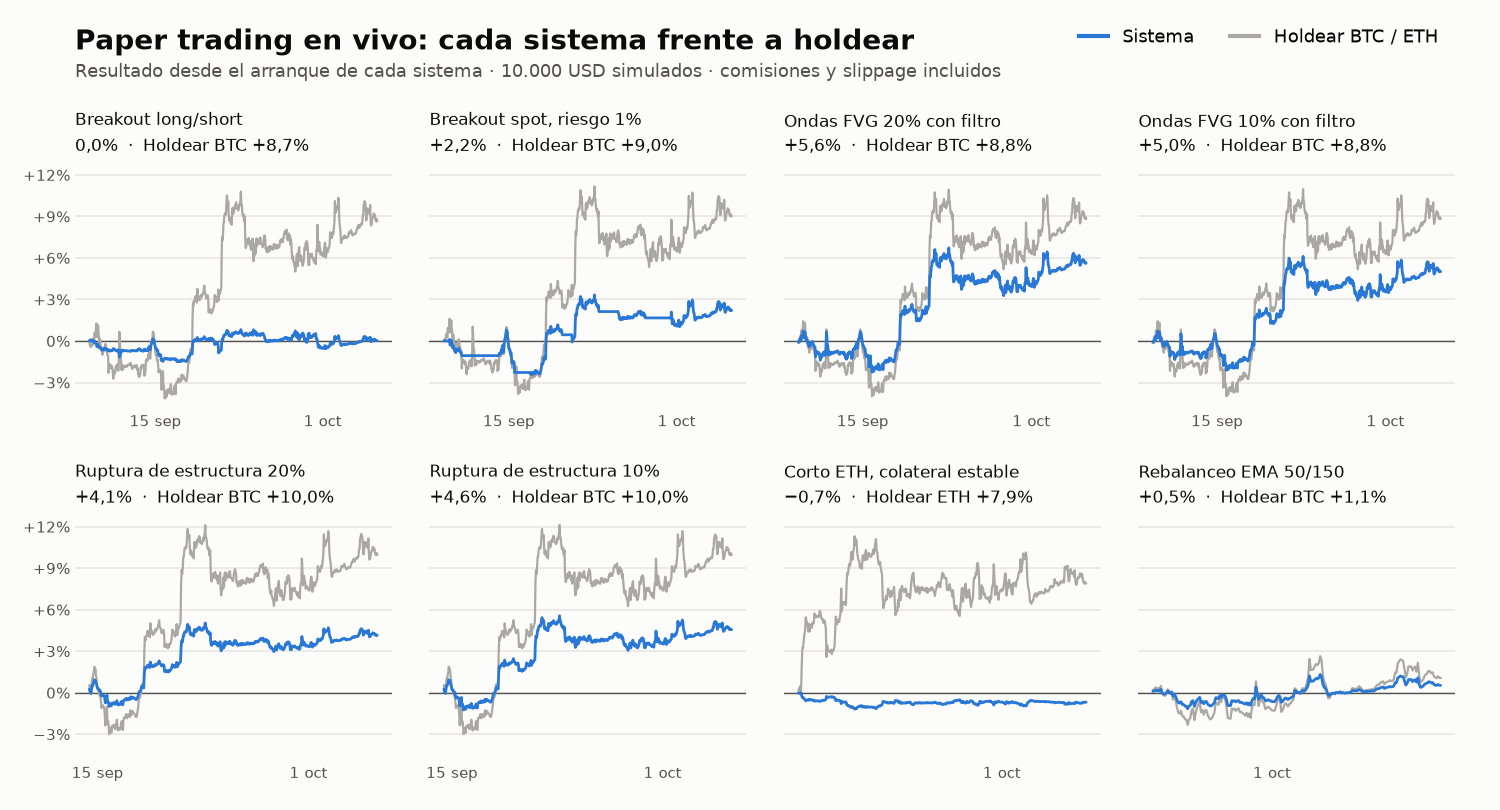
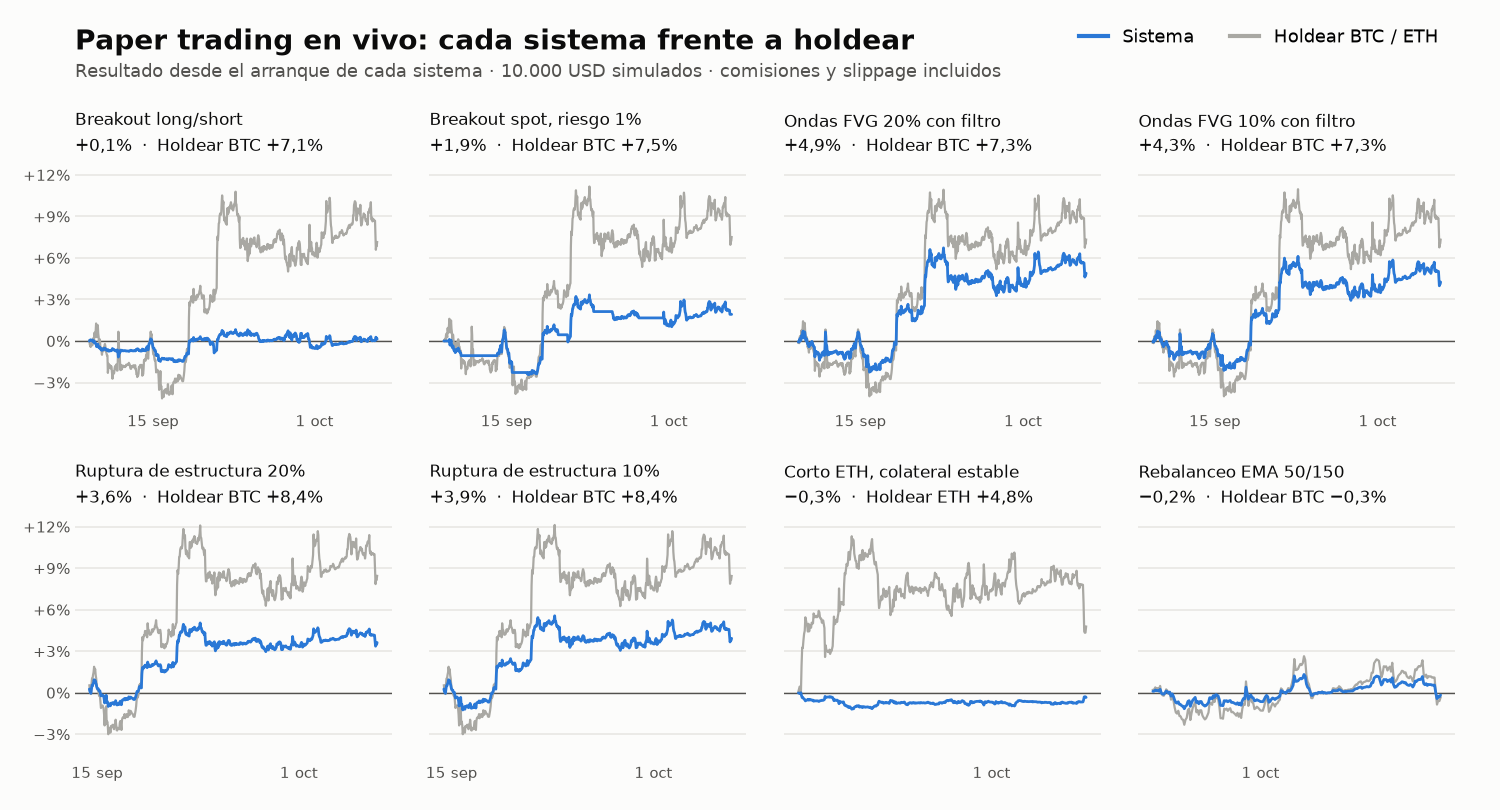
Paper trading: foto del 2026-10-07

diff --git a/live/README.es.md b/live/README.es.md
@@ -2,26 +2,26 @@
 
 [English](README.md) · **Español**
 
-**Actualizado el 6 oct 2026.** Esta página la regenera un script una vez al día a partir del estado de los motores. El historial de commits de esta carpeta deja fechada cada foto.
+**Actualizado el 7 oct 2026.** Esta página la regenera un script una vez al día a partir del estado de los motores. El historial de commits de esta carpeta deja fechada cada foto.
 
 ![Equity](equity_es.png)
 
 | Sistema | En marcha desde | Resultado | Caída máxima | Operaciones | Holdear en el periodo |
 |---|---|---|---|---|---|
-| Breakout long/short | 8 sep | 0,0% | −1,9% | 11 | +8,7% |
-| Breakout spot, riesgo 1% | 8 sep | +2,2% | −3,7% | 5 | +9,0% |
-| Ondas FVG 20% con filtro | 8 sep | +5,6% | −3,4% | 2 | +8,8% |
-| Ondas FVG 10% con filtro | 8 sep* | +5,0% | −3,2% | 2 | +8,8% |
-| Ruptura de estructura 20% | 14 sep | +4,1% | −2,2% | 2 | +10,0% |
-| Ruptura de estructura 10% | 14 sep* | +4,6% | −2,5% | 2 | +10,0% |
-| Corto ETH, colateral estable | 18 sep | −0,7% | −1,3% | 1 | ETH +7,9% |
-| Rebalanceo EMA 50/150 | 27 sep | +0,5% | −1,9% | 0 | +1,1% |
+| Breakout long/short | 8 sep | +0,1% | −1,9% | 12 | +7,1% |
+| Breakout spot, riesgo 1% | 8 sep | +1,9% | −3,7% | 6 | +7,5% |
+| Ondas FVG 20% con filtro | 8 sep | +4,9% | −3,4% | 2 | +7,3% |
+| Ondas FVG 10% con filtro | 8 sep* | +4,3% | −3,2% | 2 | +7,3% |
+| Ruptura de estructura 20% | 14 sep | +3,6% | −2,2% | 3 | +8,4% |
+| Ruptura de estructura 10% | 14 sep* | +3,9% | −2,5% | 3 | +8,4% |
+| Corto ETH, colateral estable | 18 sep | −0,3% | −1,3% | 1 | ETH +4,8% |
+| Rebalanceo EMA 50/150 | 27 sep | −0,2% | −2,0% | 0 | −0,3% |
 
 *\* Las variantes del 10% se añadieron el 22 de septiembre de 2026. Su histórico anterior se reconstruyó aplicando el nuevo tamaño a las señales ya ejecutadas.*
 
 ## Cómo leerlo
 
-- **0 de 8 sistemas van por delante de holdear** su activo desde que arrancaron. El más antiguo lleva 27 días: es poco tiempo para concluir nada sobre rentabilidad.
+- **1 de 8 sistemas van por delante de holdear** su activo desde que arrancaron. El más antiguo lleva 28 días: es poco tiempo para concluir nada sobre rentabilidad.
 - **Es dinero simulado.** Cada sistema parte de 10.000 USD ficticios. Ninguno tiene capital real.
 - **Se publica todo, también lo que va mal.** La tabla sale tal cual del estado de los motores, sin elegir sistemas ni periodos.
 - **Lo que esta fase comprueba es la operativa:** que el sistema en vivo hace lo mismo que el backtest.

diff --git a/live/README.md b/live/README.md
@@ -2,26 +2,26 @@
 
 **English** · [Español](README.es.md)
 
-**Updated on 6 Oct 2026.** A script regenerates this page once a day from the state of the engines. The commit history of this folder timestamps every snapshot.
+**Updated on 7 Oct 2026.** A script regenerates this page once a day from the state of the engines. The commit history of this folder timestamps every snapshot.
 
 ![Equity](equity_en.png)
 
 | System | Running since | Result | Max drawdown | Trades | Holding over the period |
 |---|---|---|---|---|---|
-| Breakout long/short | 8 Sep | 0.0% | −1.9% | 11 | +8.7% |
-| Spot breakout, 1% risk | 8 Sep | +2.2% | −3.7% | 5 | +9.0% |
-| FVG waves 20%, with filter | 8 Sep | +5.6% | −3.4% | 2 | +8.8% |
-| FVG waves 10%, with filter | 8 Sep* | +5.0% | −3.2% | 2 | +8.8% |
-| Structure break 20% | 14 Sep | +4.1% | −2.2% | 2 | +10.0% |
-| Structure break 10% | 14 Sep* | +4.6% | −2.5% | 2 | +10.0% |
-| ETH short, stable collateral | 18 Sep | −0.7% | −1.3% | 1 | ETH +7.9% |
-| EMA 50/150 rebalancing | 27 Sep | +0.5% | −1.9% | 0 | +1.1% |
+| Breakout long/short | 8 Sep | +0.1% | −1.9% | 12 | +7.1% |
+| Spot breakout, 1% risk | 8 Sep | +1.9% | −3.7% | 6 | +7.5% |
+| FVG waves 20%, with filter | 8 Sep | +4.9% | −3.4% | 2 | +7.3% |
+| FVG waves 10%, with filter | 8 Sep* | +4.3% | −3.2% | 2 | +7.3% |
+| Structure break 20% | 14 Sep | +3.6% | −2.2% | 3 | +8.4% |
+| Structure break 10% | 14 Sep* | +3.9% | −2.5% | 3 | +8.4% |
+| ETH short, stable collateral | 18 Sep | −0.3% | −1.3% | 1 | ETH +4.8% |
+| EMA 50/150 rebalancing | 27 Sep | −0.2% | −2.0% | 0 | −0.3% |
 
 *\* The 10% variants were added on 22 September 2026. Their earlier history was rebuilt by applying the new size to the signals already executed.*
 
 ## How to read it
 
-- **0 of 8 systems are ahead of holding** their asset since they started. The oldest has been running for 27 days: too short to conclude anything about profitability.
+- **1 of 8 systems are ahead of holding** their asset since they started. The oldest has been running for 28 days: too short to conclude anything about profitability.
 - **It is simulated money.** Each system starts from 10,000 fictional USD. None has real capital.
 - **Everything is published, including what goes badly.** The table comes straight from the state of the engines, with no picking of systems or periods.
 - **What this phase checks is the operation:** that the live system does the same as the backtest.
